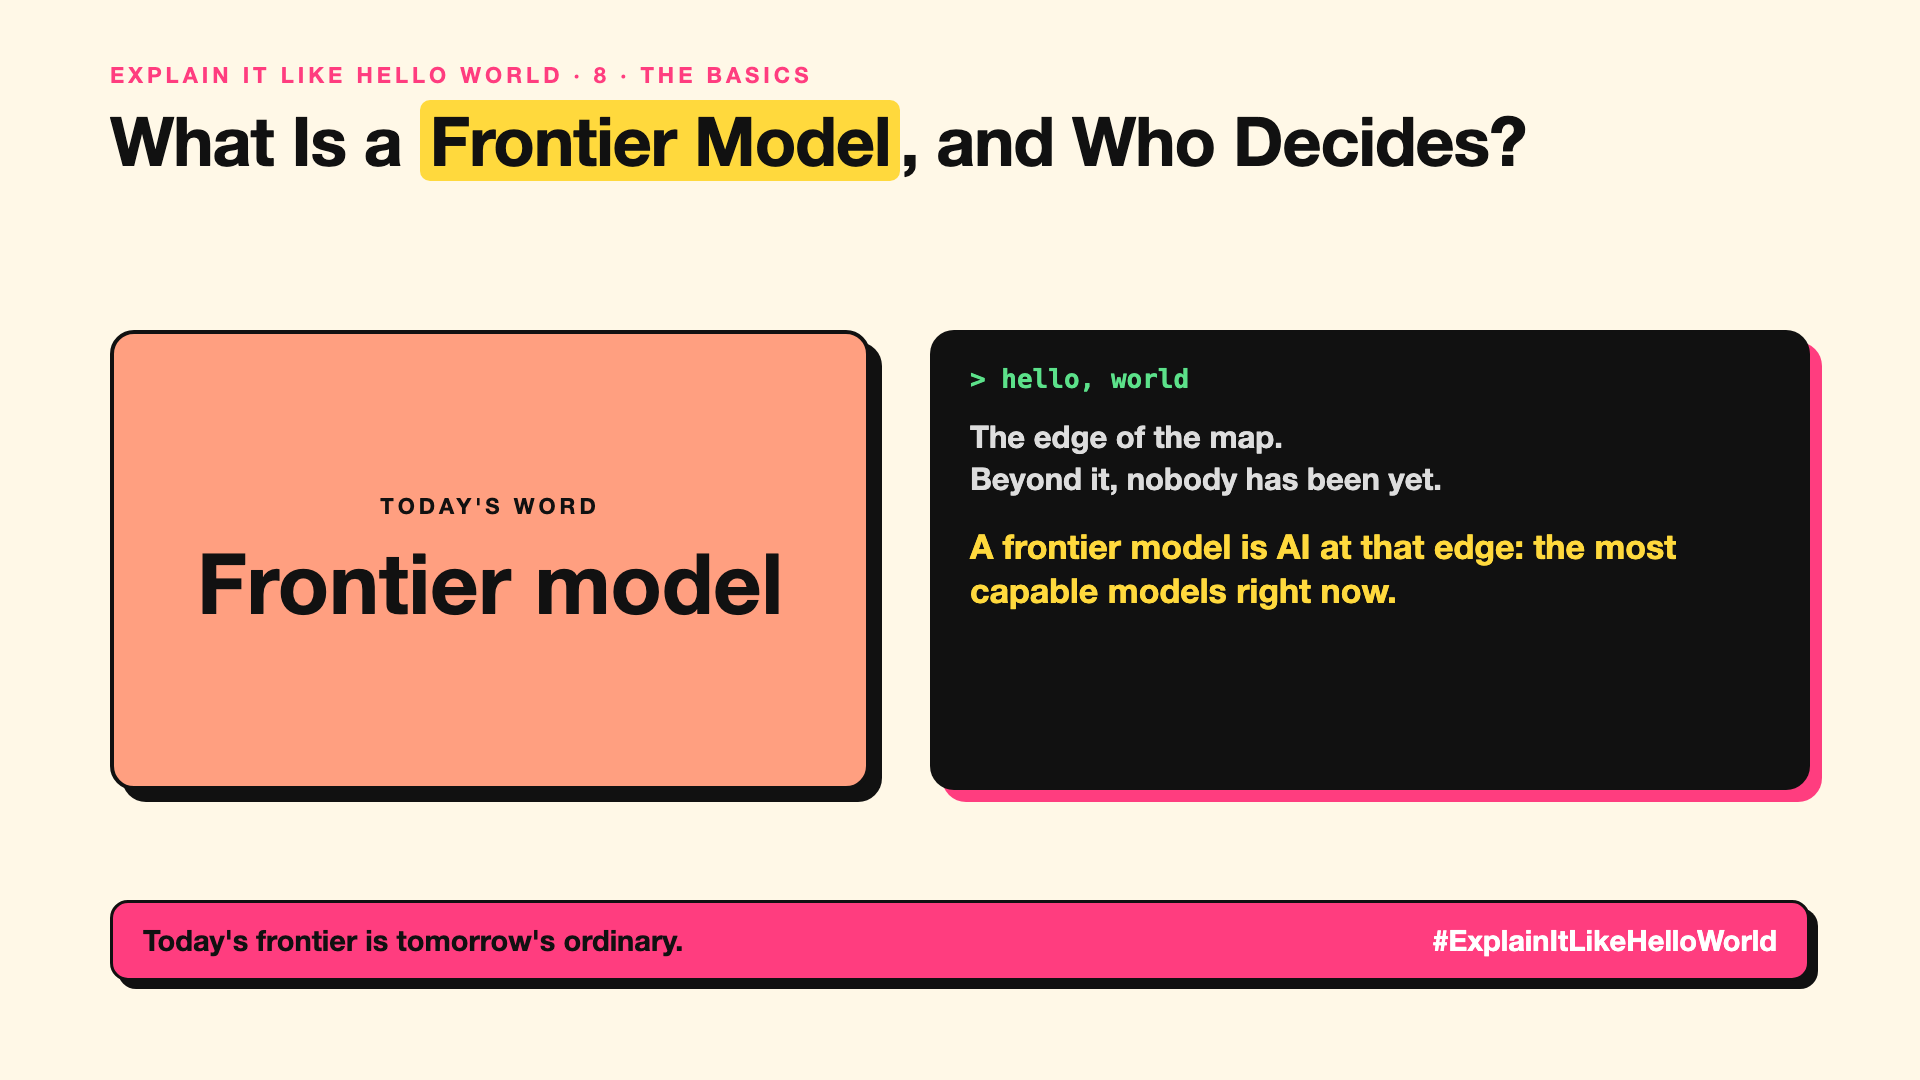
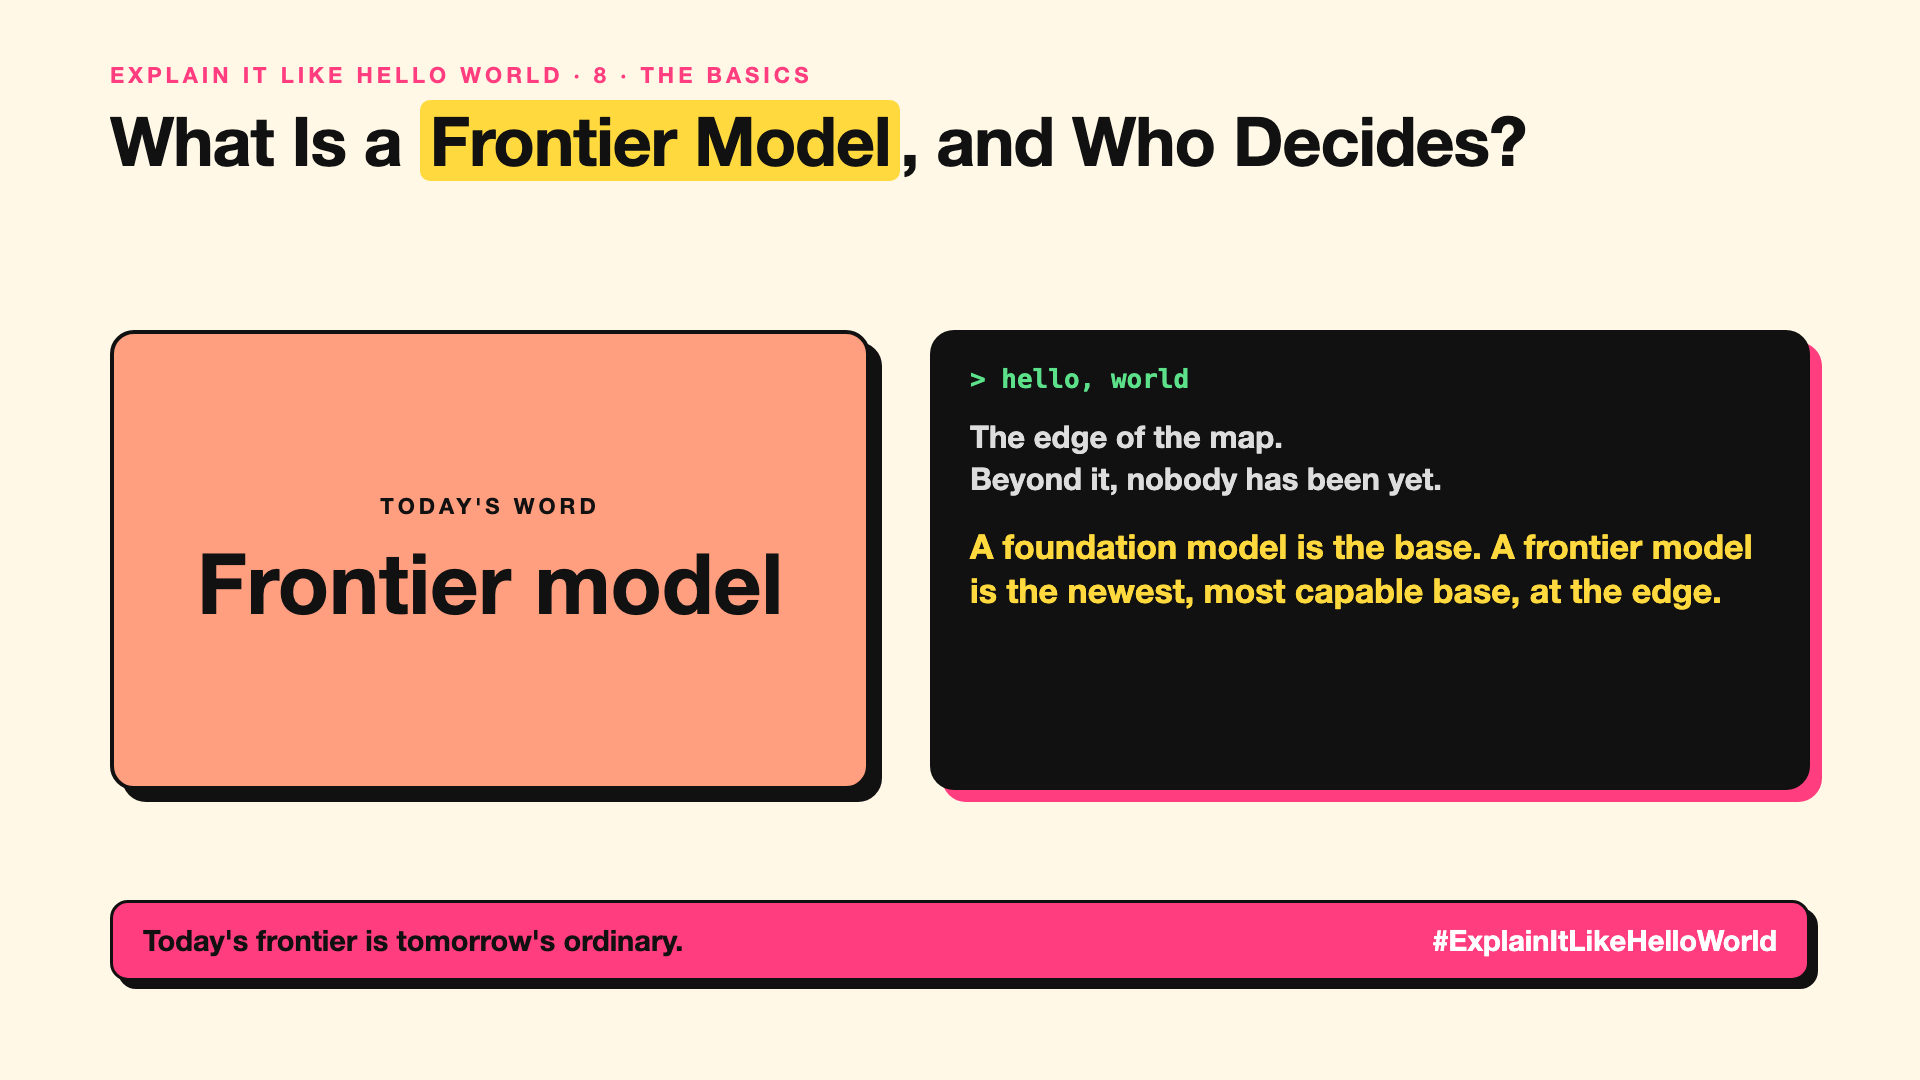
Series 23 write-up 8: foundation vs frontier model comparison in article, post and cover

Changed region(s): [[0.5, 0.4889, 0.9062, 0.5806]]

diff --git a/23-explain-like-hello-world/008-frontier-model.course.md b/23-explain-like-hello-world/008-frontier-model.course.md
@@ -12,7 +12,9 @@ The edge of a map that explorers are still drawing. Beyond it, nobody has been y
 
 ## One step further
 
-Frontier models are usually the newest, largest foundation models (write-up 7) from a handful of labs, trained with huge amounts of computing power (write-up 44 explains why scale helped). They lead on benchmarks (write-up 116) and often get new abilities first.
+Frontier models are the newest, largest foundation models (write-up 7) from a handful of labs, trained with huge amounts of computing power (write-up 44 explains why scale helped). They lead on benchmarks (write-up 116) and often get new abilities first.
+
+Compare the two: a foundation model is any large base model that many apps are built on. A frontier model is the newest, most capable of those, right now. Every frontier model is a foundation model, but not every foundation model is at the frontier.
 
 Because they are the most powerful, safety rules and voluntary commitments often focus on them. The frontier also moves: today's frontier model is next year's ordinary one.
 
@@ -22,7 +24,7 @@ Explain frontier model to someone non-technical in under one minute, using your 
 
 ## Quiz
 
-1. What is the hello-world example for frontier model? *A frontier model is AI at that edge: the most capable models right now.*
+1. What is the hello-world example for frontier model? *A foundation model is the base. A frontier model is the newest, most capable base, at the edge.*
 2. What is it not? *Frontier doesn't mean best for your task. A smaller, cheaper model (write-up 56) often does a simple job just as well.*
 3. Name one place you've already met it. *The flagship models that AI labs announce with big launch events, and the top tier in a chatbot's model menu.*
 

diff --git a/23-explain-like-hello-world/README.md b/23-explain-like-hello-world/README.md
@@ -36,7 +36,7 @@ One word per write-up. Season 1 covers the AI words in use so far; later seasons
 | 5 | [Is a Neural Network Really Like a Brain?](005-neural-network.md) (Neural network) | A neural network is billions of tiny voters adding up numbers. | [Published](https://www.linkedin.com/pulse/5-neural-network-really-like-brain-arpit-jain-jpigf) 30 October 2026 |
 | 6 | [What Makes Generative AI "Generative"?](006-generative-ai.md) (Generative AI) | Generative AI makes new things instead of just labelling old ones. | [Published](https://www.linkedin.com/pulse/6-what-makes-generative-ai-arpit-jain-q2rkf) 31 October 2026 |
 | 7 | [Why Are They Called Foundation Models?](007-foundation-model.md) (Foundation model) | A foundation model is one big base that many AI products are built on. | Draft for review |
-| 8 | [What Is a Frontier Model, and Who Decides?](008-frontier-model.md) (Frontier model) | A frontier model is AI at that edge: the most capable models right now. | Draft for review |
+| 8 | [What Is a Frontier Model, and Who Decides?](008-frontier-model.md) (Frontier model) | A foundation model is the base. A frontier model is the newest, most capable base, at the edge. | Draft for review |
 | 9 | [What Is AGI, and What Would Make AI "General"?](009-agi.md) (AGI) | AGI means one AI that can learn most tasks a person can. | Draft for review |
 | 10 | [What Is Superintelligence, and Should We Worry?](010-superintelligence.md) (Superintelligence) | Superintelligence means AI smarter than the best humans in almost every field. | Draft for review |
 | | **Part 1: How an AI reads and writes** | | |

diff --git a/23-explain-like-hello-world/008-frontier-model.md b/23-explain-like-hello-world/008-frontier-model.md
@@ -14,7 +14,9 @@ That's the hello world: a **frontier model** is one of the most capable AI model
 
 ## One step further
 
-Frontier models are usually the newest, largest foundation models (write-up 7) from a handful of labs, trained with huge amounts of computing power (write-up 44 explains why scale helped). They lead on benchmarks (write-up 116) and often get new abilities first.
+Frontier models are the newest, largest foundation models (write-up 7) from a handful of labs, trained with huge amounts of computing power (write-up 44 explains why scale helped). They lead on benchmarks (write-up 116) and often get new abilities first.
+
+Compare the two: a foundation model is any large base model that many apps are built on. A frontier model is the newest, most capable of those, right now. Every frontier model is a foundation model, but not every foundation model is at the frontier.
 
 Because they are the most powerful, safety rules and voluntary commitments often focus on them. The frontier also moves: today's frontier model is next year's ordinary one.
 
@@ -70,7 +72,7 @@ Follow me for the next one. Does your team use a frontier model for jobs a small
 The edge of the map.
 Beyond it, nobody has been yet.
 
-A frontier model is AI at that edge: the most capable models right now.
+A foundation model is the base. A frontier model is the newest, most capable base, at the edge.
 
 The edge moves every few months.
 

diff --git a/23-explain-like-hello-world/126-finale-ai-dictionary.md b/23-explain-like-hello-world/126-finale-ai-dictionary.md
@@ -20,7 +20,7 @@ That was the whole idea of this series: every AI word has a hello world, a tiny 
 - **Neural network** (5): A neural network is billions of tiny voters adding up numbers.
 - **Generative AI** (6): Generative AI makes new things instead of just labelling old ones.
 - **Foundation model** (7): A foundation model is one big base that many AI products are built on.
-- **Frontier model** (8): A frontier model is AI at that edge: the most capable models right now.
+- **Frontier model** (8): A foundation model is the base. A frontier model is the newest, most capable base, at the edge.
 - **AGI** (9): AGI means one AI that can learn most tasks a person can.
 - **Superintelligence** (10): Superintelligence means AI smarter than the best humans in almost every field.
 
